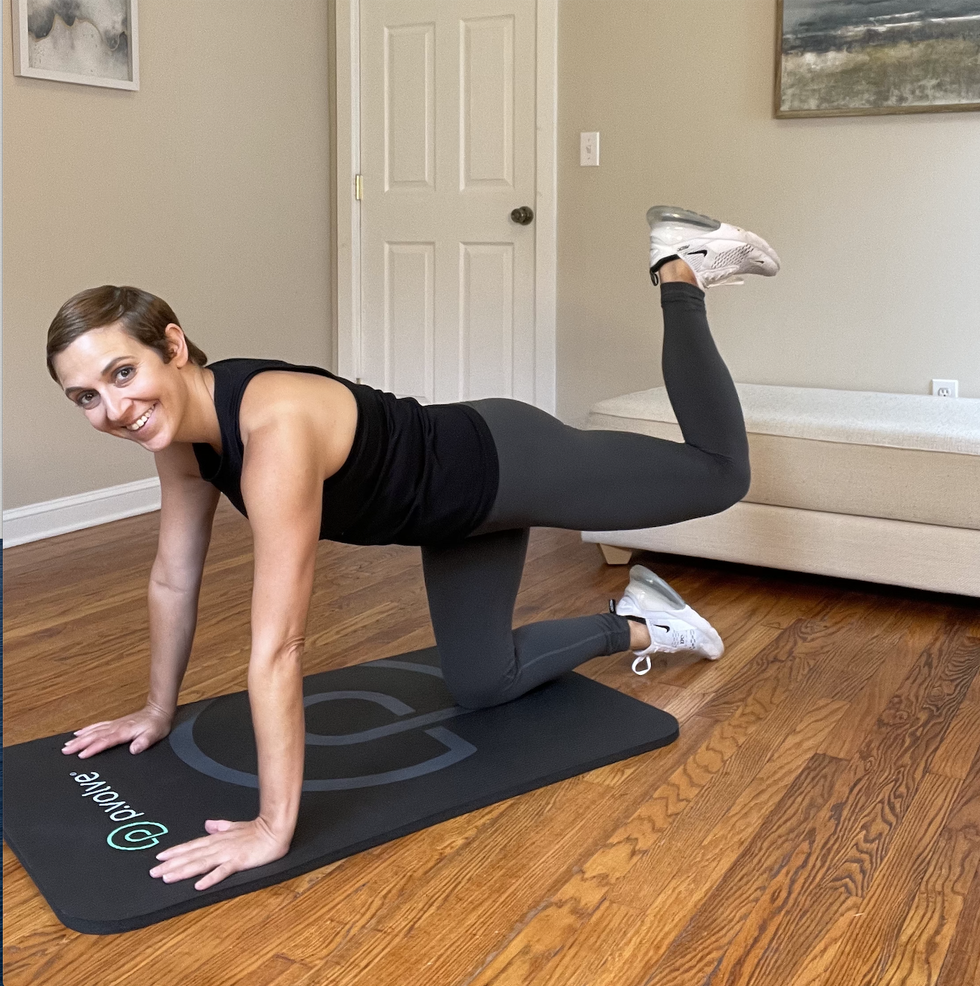
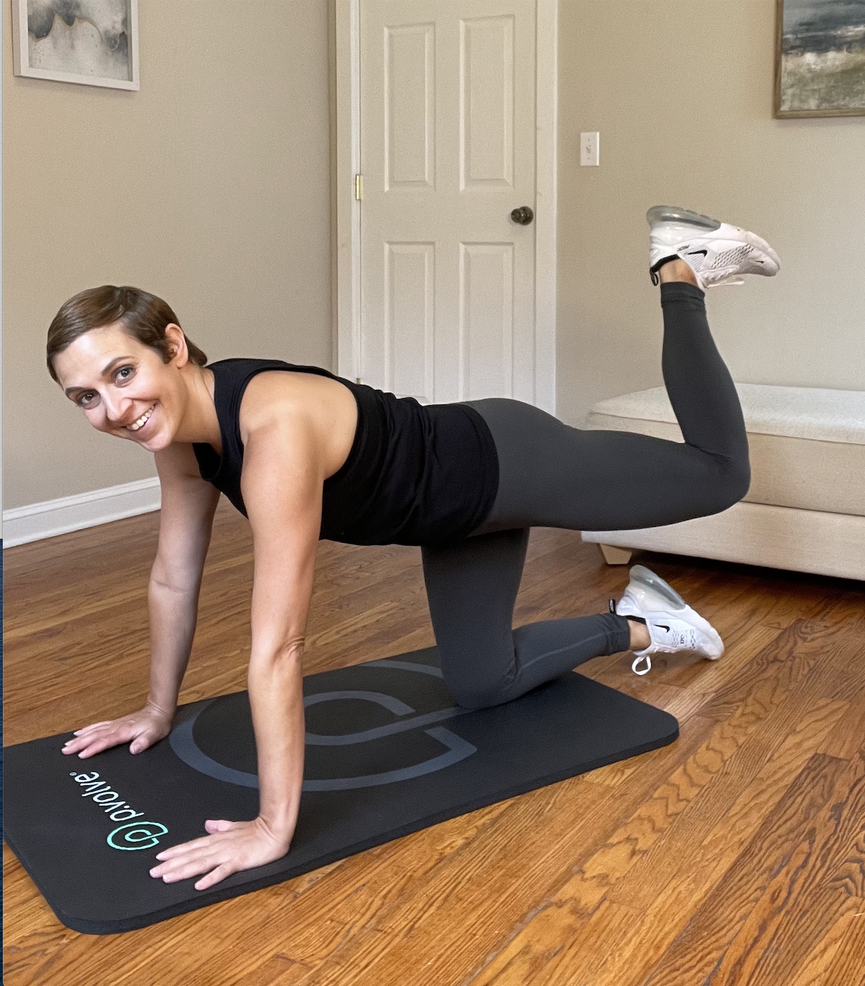
Pregnancy exercises history page code formatting

diff --git a/thurula/lib/views/pregnancy/pregnancy_exercises/pregnancy_exercise_timer_view.dart b/thurula/lib/views/pregnancy/pregnancy_exercises/pregnancy_exercise_timer_view.dart
@@ -61,7 +61,6 @@ List<String> exerciseNamesT2 = [
   "Leg Lift"
 ];
 
-
 // second trimester exercise descriptions
 List<List<String>> exerciseStepsT2 = [
   // Step Back
@@ -144,6 +143,7 @@ List<List<String>> exerciseStepsT3 = [
 
 class ExerciseTimerView extends StatelessWidget {
   final String exercise;
+
   const ExerciseTimerView({super.key, required this.exercise});
 
   @override
@@ -156,6 +156,7 @@ class ExerciseTimerView extends StatelessWidget {
 
 class TimerPage extends StatefulWidget {
   final String exercise;
+
   const TimerPage({super.key, required this.exercise});
 
   @override
@@ -163,9 +164,10 @@ class TimerPage extends StatefulWidget {
 }
 
 class _TimerPageState extends State<TimerPage> {
-
   final String exercise;
+
   _TimerPageState(this.exercise);
+
   // final Duration _initialDuration = const Duration(seconds: 45);
   // Duration _remainingDuration = const Duration(seconds: 45);
   Duration _elapsedDuration = Duration.zero;
@@ -192,12 +194,12 @@ class _TimerPageState extends State<TimerPage> {
         timer.cancel();
       } else if (_isPaused) {
         // Do nothing, timer is paused
-      // } else if (_remainingDuration.inMilliseconds <= 0) {
-      //   setState(() {
-      //     _isRunning = false;
-      //     _isPaused = false;
-      //   });
-      //   timer.cancel();
+        // } else if (_remainingDuration.inMilliseconds <= 0) {
+        //   setState(() {
+        //     _isRunning = false;
+        //     _isPaused = false;
+        //   });
+        //   timer.cancel();
       } else {
         setState(() {
           // _remainingDuration -= const Duration(milliseconds: 100);
@@ -242,15 +244,20 @@ class _TimerPageState extends State<TimerPage> {
                 color: Color.fromARGB(255, 220, 104, 145),
                 fontWeight: FontWeight.bold,
               )
-          //     padding: const EdgeInsets.only(bottom: 10),
-          ),
+              //     padding: const EdgeInsets.only(bottom: 10),
+              ),
           content: SingleChildScrollView(
             child: Column(
               children: [
                 // sized box
                 const SizedBox(height: 15),
                 // get exercise steps
-                for (var i = 0; i < _getExerciseDesc(exercise.split(',')[0], exercise.split(',')[1]).length; i++)
+                for (var i = 0;
+                    i <
+                        _getExerciseDesc(
+                                exercise.split(',')[0], exercise.split(',')[1])
+                            .length;
+                    i++)
                   Padding(
                     padding: const EdgeInsets.only(bottom: 10),
                     child: Row(
@@ -265,7 +272,7 @@ class _TimerPageState extends State<TimerPage> {
                           ),
                           child: Center(
                             child: Text(
-                              (i+1).toString(),
+                              (i + 1).toString(),
                               style: const TextStyle(
                                 color: Colors.white,
                                 fontWeight: FontWeight.bold,
@@ -277,7 +284,8 @@ class _TimerPageState extends State<TimerPage> {
                         // text
                         Expanded(
                           child: Text(
-                            _getExerciseDesc(exercise.split(',')[0], exercise.split(',')[1])[i],
+                            _getExerciseDesc(exercise.split(',')[0],
+                                exercise.split(',')[1])[i],
                             style: const TextStyle(
                               color: Color.fromARGB(255, 80, 78, 78),
                               // fontWeight: FontWeight.bold,
@@ -320,13 +328,12 @@ class _TimerPageState extends State<TimerPage> {
         leading: IconButton(
           icon: const Icon(Icons.arrow_back),
           onPressed: () {
-            Navigator.push(
-                context,
-                MaterialPageRoute(
-                    builder: (context) => const ExercisesView()));
+            Navigator.push(context,
+                MaterialPageRoute(builder: (context) => const ExercisesView()));
           },
         ),
-        title: Text(_getExerciseName(exercise.split(',')[0], exercise.split(',')[1])),
+        title: Text(
+            _getExerciseName(exercise.split(',')[0], exercise.split(',')[1])),
         actions: [
           IconButton(
             icon: const Icon(Icons.info),
@@ -334,7 +341,7 @@ class _TimerPageState extends State<TimerPage> {
           ),
         ],
       ),
-      backgroundColor: Colors.grey[200],
+      backgroundColor: Colors.white,
       body: Column(
         mainAxisAlignment: MainAxisAlignment.start,
         children: [
@@ -343,7 +350,7 @@ class _TimerPageState extends State<TimerPage> {
             _getExerciseImage(trimester, index),
             width: 500,
             height: 450,
-          //   crop
+            //   crop
             fit: BoxFit.cover,
           ),
           const SizedBox(height: 50),
@@ -361,7 +368,9 @@ class _TimerPageState extends State<TimerPage> {
               ElevatedButton(
                 onPressed: resetTimer,
                 style: ElevatedButton.styleFrom(
-                  foregroundColor: const Color.fromARGB(255, 220, 104, 145), backgroundColor: Colors.white, shape: const CircleBorder(),
+                  foregroundColor: const Color.fromARGB(255, 220, 104, 145),
+                  backgroundColor: Colors.white,
+                  shape: const CircleBorder(),
                   padding: const EdgeInsets.all(15),
                 ),
                 child: const Icon(Icons.replay),
@@ -370,56 +379,39 @@ class _TimerPageState extends State<TimerPage> {
               ElevatedButton(
                 onPressed: toggleTimer,
                 style: ElevatedButton.styleFrom(
-                  shape: const CircleBorder(), backgroundColor: const Color.fromARGB(255, 220, 104, 145),
+                  shape: const CircleBorder(),
+                  backgroundColor: const Color.fromARGB(255, 220, 104, 145),
                   padding: const EdgeInsets.all(25),
                 ),
-                child: Icon(_isRunning && !_isPaused ? Icons.pause : Icons.play_arrow),
+                child: Icon(
+                    _isRunning && !_isPaused ? Icons.pause : Icons.play_arrow),
               ),
               const SizedBox(width: 10),
-            // if index is 4
-            // //   done button
-            //   ElevatedButton(
-            //     onPressed: () {
-            //       Navigator.push(
-            //           context,
-            //           MaterialPageRoute(
-            //               builder: (context) => const ExercisesView()));
-            //     },
-            //     style: ElevatedButton.styleFrom(
-            //       foregroundColor: Colors.white,
-            //       backgroundColor: const Color.fromARGB(255, 88, 119, 161),
-            //       shape: const CircleBorder(),
-            //       padding: const EdgeInsets.all(15),
-            //     ),
-            //     child: const Icon(Icons.done),
-            //   ),
-            //   next button
+              //   next button
               ElevatedButton(
-                onPressed: () {
-                  // if index is < 5, go to next exercise
-                  if (int.parse(index) < 5) {
-                    Navigator.push(
-                        context,
-                        MaterialPageRoute(
-                            builder: (context) => ExerciseTimerView(exercise: '$trimester, ${int.parse(index)+1}')));
-                  }
-                  else {
-                    Navigator.push(
-                        context,
-                        MaterialPageRoute(
-                            builder: (context) => const ExercisesView()));
-                  }
-                },
-                style: ElevatedButton.styleFrom(
-                  foregroundColor: Colors.white,
-                  backgroundColor: const Color.fromARGB(255, 88, 119, 161),
-                  shape: const CircleBorder(),
-                  padding: const EdgeInsets.all(15),
-                ),
-                child: const Icon(Icons.done)
-              //     forward of index is less than 5, done if index is 4
-              //   Icon(int.parse(index) < 5 ? Icons.arrow_forward : Icons.done),
-              ),
+                  onPressed: () {
+                    // if index is < 5, go to next exercise
+                    if (int.parse(index) < 5) {
+                      Navigator.push(
+                          context,
+                          MaterialPageRoute(
+                              builder: (context) => ExerciseTimerView(
+                                  exercise:
+                                      '$trimester, ${int.parse(index) + 1}')));
+                    } else {
+                      Navigator.push(
+                          context,
+                          MaterialPageRoute(
+                              builder: (context) => const ExercisesView()));
+                    }
+                  },
+                  style: ElevatedButton.styleFrom(
+                    foregroundColor: Colors.white,
+                    backgroundColor: const Color.fromARGB(255, 88, 119, 161),
+                    shape: const CircleBorder(),
+                    padding: const EdgeInsets.all(15),
+                  ),
+                  child: const Icon(Icons.done)),
             ],
           ),
         ],
@@ -432,11 +424,11 @@ class _TimerPageState extends State<TimerPage> {
 String _getExerciseName(String trimester, String index) {
   switch (trimester) {
     case '1':
-      return exerciseNamesT1[int.parse(index)-1];
+      return exerciseNamesT1[int.parse(index) - 1];
     case '2':
-      return exerciseNamesT2[int.parse(index)-1];
+      return exerciseNamesT2[int.parse(index) - 1];
     case '3':
-      return exerciseNamesT3[int.parse(index)-1];
+      return exerciseNamesT3[int.parse(index) - 1];
     default:
       return "Default";
   }
@@ -446,11 +438,11 @@ String _getExerciseName(String trimester, String index) {
 List<String> _getExerciseDesc(String trimester, String index) {
   switch (trimester) {
     case '1':
-      return exerciseStepsT1[int.parse(index)-1];
+      return exerciseStepsT1[int.parse(index) - 1];
     case '2':
-      return exerciseStepsT2[int.parse(index)-1];
+      return exerciseStepsT2[int.parse(index) - 1];
     case '3':
-      return exerciseStepsT3[int.parse(index)-1];
+      return exerciseStepsT3[int.parse(index) - 1];
     default:
       return ["Default"];
   }
